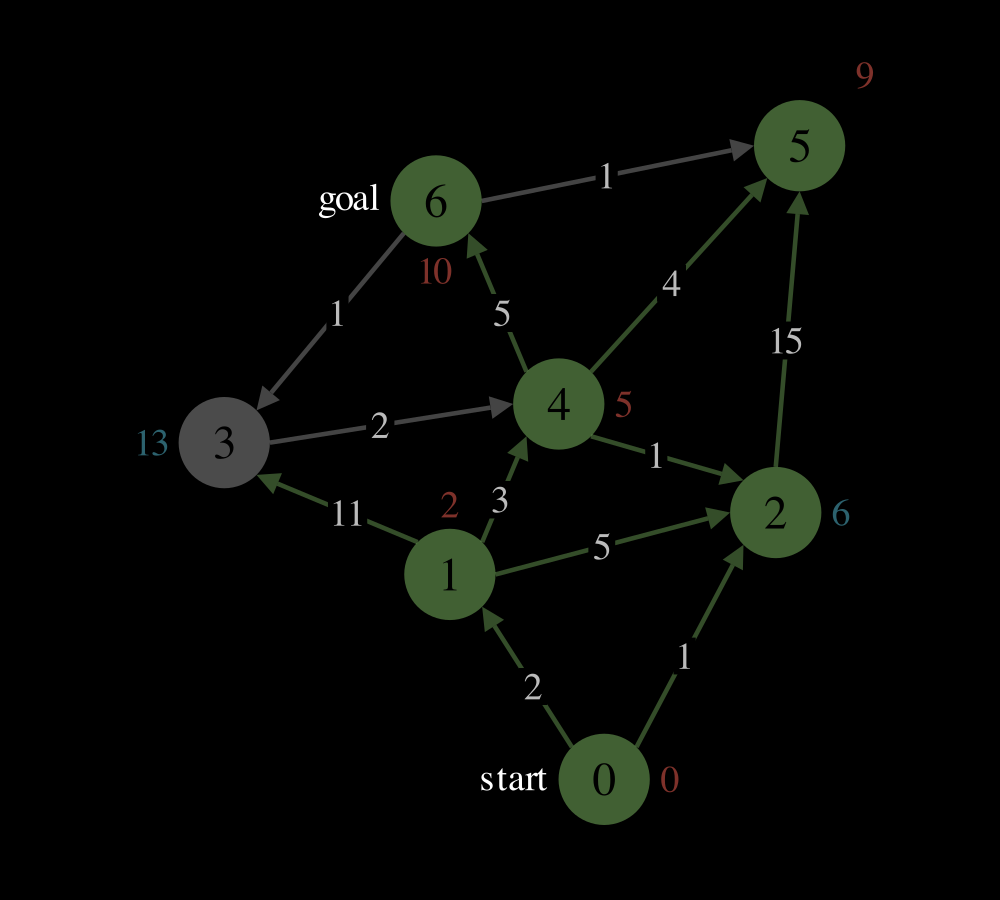
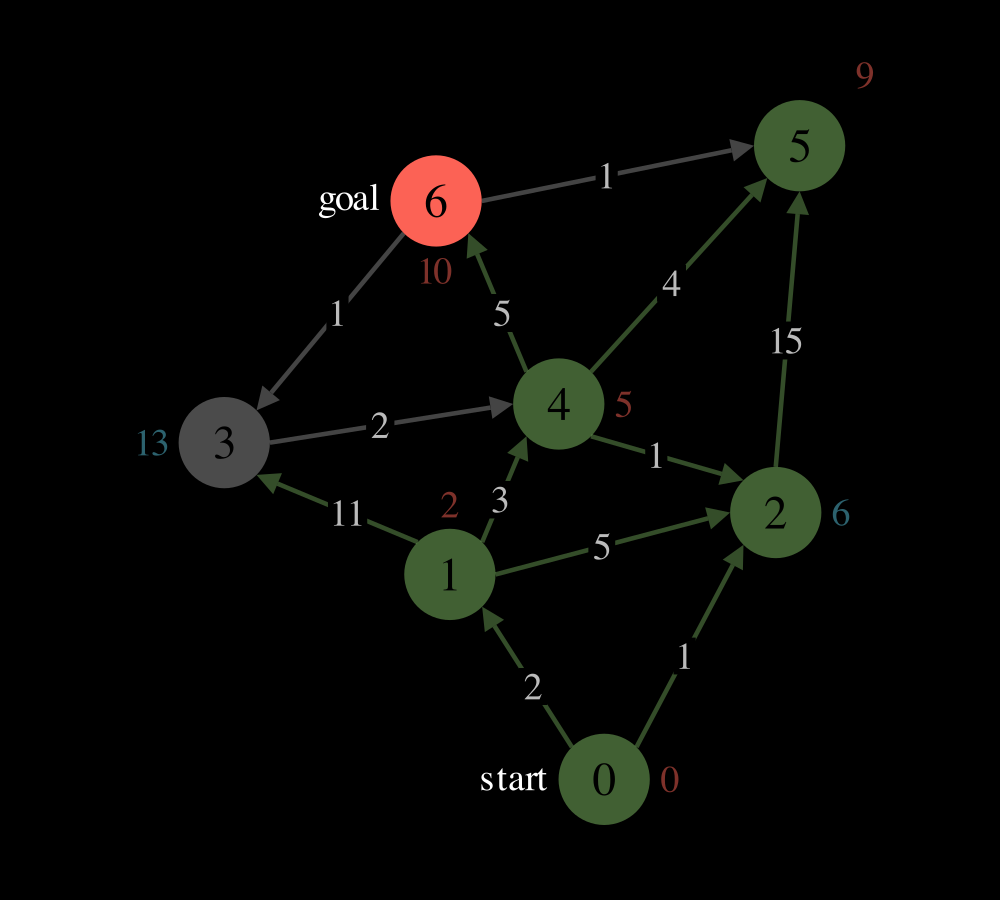
cleanup dijkstra

Changed region(s): [[0.372, 0.1556, 0.496, 0.28]]

diff --git a/react-src/components/comics/dijkstra/DijkstraBehaviorComic.tsx b/react-src/components/comics/dijkstra/DijkstraBehaviorComic.tsx
@@ -4,6 +4,7 @@ import { useRef } from "react"
 
 const CUR_BLUE = "#58C4DD"
 const CUR_RED = "#7E312A"
+const VERTEX_RED = "#FC6255"
 const DijkstraBehaviorComic = () => {
   const folder = "/graphics/dijkstra/comic-behavior"
   const imageIndex = useRef(0)
@@ -11,33 +12,14 @@ const DijkstraBehaviorComic = () => {
     return <img src={`${folder}/step${imageIndex.current++}.png`} />
   }
   const introText =
-    "Welcome! We're going to apply Dijkstra's to the problem of finding the shortest path from the start to the end of a graph with non-negative weights."
+    "Welcome! We're going to apply Dijkstra's to find the shortest path from the start vertex to the end vertex of a directed graph (meaning edges have direction) with non-negative weights. You can also think of this as finding the shortest driving directions on a map, where each edge is a one-way street and each edge weight is the distance (or time) to travel that street."
+  const ignoreFirstImage = nextImage()
+
   const row1 = (
-    <Row
-      comps={[
-        <Panel
-          panel={
-            <Panel
-              justifyPanelContent="center"
-              // labelBelow={<Text justifyContent="center" value="" />}
-              panel={
-                <img src={`/graphics/dijkstra/lambda.png`} width={"60px"} />
-              }
-              label={<Text value={introText} />}
-            />
-          }
-        />,
-        <Panel
-          panel={nextImage()}
-          label={
-            <Text
-              value="This is our graph. Now I'll lose the first-person and get right to it."
-              justifyContent="center"
-            />
-          }
-        />,
-      ]}
-    />
+    <div className="flex flex-row gap-4 items-center">
+      {<img src={`/graphics/dijkstra/lambda.png`} width={"60px"} />}
+      <div>{<Text value={introText} />}</div>
+    </div>
   )
 
   const row2 = (
@@ -55,8 +37,9 @@ const DijkstraBehaviorComic = () => {
             <Text
               value={
                 <span>
-                  Next, relax all the edges going out of the node. That is, for
-                  each neighboring node, update its{" "}
+                  Next, relax all the edges going out of vertex{" "}
+                  <Text inline={true} color={VERTEX_RED} value={"v"} />. That
+                  is, for each neighboring vertex, update its{" "}
                   <Text
                     inline={true}
                     color={CUR_BLUE}
@@ -64,7 +47,9 @@ const DijkstraBehaviorComic = () => {
                   />
                   . If the distance of the new path along the edge is less than
                   the best distance so far, then update the best distance so
-                  far.
+                  far. Also update the previous vertex of this neighbor to be
+                  vertex <Text inline={true} color={VERTEX_RED} value={"v"} />,
+                  in order to track the shortest paths.
                 </span>
               }
             />
@@ -79,13 +64,13 @@ const DijkstraBehaviorComic = () => {
         <Panel
           panel={nextImage()}
           label={
-            <Text value="Explore node 2 because it has the smallest best distance so far among the unexplored nodes. Node 2’s distance value of 1 is less than node 1’s distance value of 2 and all the other nodes’ distance values of infinity." />
+            <Text value="Explore vertex 2 because it has the smallest best distance so far among the unexplored vertexs. Vertex 2’s distance value of 1 is less than vertex 1’s distance value of 2 and all the other vertexs’ distance values of infinity." />
           }
         />,
         <Panel
           panel={nextImage()}
           label={
-            <Text value="Again, relax all the edges going out of the node, just one edge in this case." />
+            <Text value="Again, relax all the edges going out of the vertex, just one edge in this case." />
           }
         />,
       ]}
@@ -96,13 +81,13 @@ const DijkstraBehaviorComic = () => {
       comps={[
         <Row
           label={
-            <Text value="Explore node 1 because it has the smallest best distance so far among the unexplored nodes. And relax the edges." />
+            <Text value="Explore vertex 1 because it has the smallest best distance so far among the unexplored vertexs. And relax the edges." />
           }
           comps={[<Panel panel={nextImage()} />, <Panel panel={nextImage()} />]}
         />,
         <Row
           label={
-            <Text value="And repeat. Notice how the goal node was reached but we continue searching until the goal node is actually explored." />
+            <Text value="And repeat. Notice how the goal vertex was reached but we continue searching until the goal vertex is actually explored." />
           }
           comps={[<Panel panel={nextImage()} />, <Panel panel={nextImage()} />]}
         />,
@@ -118,8 +103,8 @@ const DijkstraBehaviorComic = () => {
             <Text
               value={
                 <span>
-                  Explore node 5. When a node is reached in an explore step
-                  (like this one), the{" "}
+                  Explore vertex 5. When a vertex is reached in an explore step
+                  (like this one), its shortest path and{" "}
                   {
                     <Text
                       inline={true}
@@ -127,9 +112,8 @@ const DijkstraBehaviorComic = () => {
                       value={"minimum distance"}
                     />
                   }{" "}
-                  and the shortest path to that node from the start has been
-                  found. That statement deserves a proof but for now let's keep
-                  going.
+                  from the start has been found. That statement deserves a proof
+                  but for now let's keep going.
                 </span>
               }
             />
@@ -156,7 +140,7 @@ const DijkstraBehaviorComic = () => {
         />,
         <Column
           label={
-            <Text value="Repeatedly follow edges backward until the start is reached." />
+            <Text value="Using the previous vertices tracked in the relax step, repeatedly follow edges backward until the start is reached." />
           }
           comps={[
             <Row
@@ -176,6 +160,7 @@ const DijkstraBehaviorComic = () => {
       ]}
     />
   )
-  return <Column comps={[row1, row2, row3, row4, row5, row6]} />
+  //   return <hr />
+  return <Column comps={[row1, <hr />, row2, row3, row4, row5, row6]} />
 }
 export default DijkstraBehaviorComic

diff --git a/react-src/components/comics/dijkstra/DijkstraIntro.tsx b/react-src/components/comics/dijkstra/DijkstraIntro.tsx
@@ -1,4 +1,4 @@
-import { Panel, Row, Text } from "@/components"
+import { Column, Panel, Row, Text } from "@/components"
 import Editor from "@monaco-editor/react"
 
 const DijkstraIntro = () => {
@@ -13,8 +13,16 @@ const DijkstraIntro = () => {
       Dijkstra's algorithm is used to find the shortest paths between a source
       vertex and all other vertices in a graph with nonnegative weights.
       Djikstra's can also solve the more specific problem of finding the
-      shortest path from a start vertex to an end vertex. A common use case is
-      finding directions from Point A to Point B on a map.
+      shortest path from a start vertex to an end vertex. One use case could be
+      finding directions from Point A to Point B using roads on a map.
+    </span>
+  )
+
+  let textRuntime = (
+    <span>
+      <b>Runtime: </b>
+      <code>O((E+V)logV)</code> for a simple python implementation (see below),
+      where E is the number of edges and V is the number of vertices.
     </span>
   )
   let algSteps = (
@@ -23,7 +31,7 @@ const DijkstraIntro = () => {
       <ul>
         <li>
           Initialize a priority queue <code>PQ</code> and a map{" "}
-          <code>distances</code>.
+          <code>distances</code> and a map <code>prev</code>.
         </li>
         <li>
           Repeat until <code>PQ</code> is empty:
@@ -34,49 +42,30 @@ const DijkstraIntro = () => {
           </li>
           <li>
             <b>Relax</b> the outgoing edges of <code>v</code> by updating{" "}
-            <code>distances</code> and <code>PQ</code> and also{" "}
-            <code>prev</code> for tracking these paths. See the picture to see a
-            relaxation step.
+            <code>distances</code>, <code>PQ</code>, and <code>prev</code>. See
+            the picture above to see a relaxation step.
           </li>
         </ul>
       </ul>
     </span>
   )
-  let textRuntime = (
-    <span>
-      <b>Runtime: </b>
-      With a simple python implementation (see below), its runtime is{" "}
-      <code>O((E+V)logV)</code> where E is the number of edges and V is the
-      number of vertices.
-    </span>
-  )
 
-  let snapshotText = (
-    <div>
-      {textIntro}
-      <br />
-      <br />
-      {algSteps}
-      <br />
-      {textRuntime}
-    </div>
-  )
+  let snapshotText = <div>{textIntro}</div>
   return (
-    <div>
-      <Row
-        comps={[
-          <Panel
-            label={
-              <div>
-                <Text fontSize="18px" value={snapshotText} />
-              </div>
-            }
-          />,
-          <Panel
-            panel={<img src="/graphics/dijkstra/comic-behavior/step6.png" />}
-          />,
-        ]}
-      />
+    <div className="flex flex-col">
+      <div className="flex flex-row">
+        <div className="w-3/5">
+          {<Text fontSize="20px" value={snapshotText} />}
+          <br />
+          {<Text fontSize="20px" value={textRuntime} />}
+        </div>
+        <div className="w-2/5">
+          <img src="/graphics/dijkstra/comic-behavior/step6.png" alt="" />
+        </div>
+      </div>
+
+      <br />
+      {<Text value={algSteps} />}
     </div>
   )
 }

diff --git a/react-src/components/comics/dijkstra/DijkstraCode.tsx b/react-src/components/comics/dijkstra/DijkstraCode.tsx
@@ -2,9 +2,10 @@ import Editor from "@monaco-editor/react"
 
 const DijkstraCode = () => {
   const pythonCode = `import heapq
+# graph is a map from vertex v => list of outgoing edges
 def dijkstra(graph, start):
-    # graph is a map from vertex v => list of outgoing edges
-    dist = {node: float("inf") for node in graph}
+    # dist is a map from vertex v => best distance found so far
+    dist = {v: float("inf") for v in graph}
     dist[start] = 0
     pq = [(0, start)]
     prev = {}
@@ -33,19 +34,22 @@ dist, prev = dijkstra(g, start)
 print("distance to 6 should be 10 and is", dist[6])
 `
   return (
-    <Editor
-      height="38rem"
-      defaultLanguage="python"
-      theme="vs-dark"
-      defaultValue={pythonCode}
-      options={{
-        readOnly: true,
-        minimap: { enabled: false },
-        scrollbar: { vertical: "hidden", alwaysConsumeMouseWheel: false },
-        scrollBeyondLastLine: false,
-        fontSize: 16,
-      }}
-    />
+    <div>
+      <Editor
+        //   height="38rem"
+        height={pythonCode.split("\n").length * 21 + "px"}
+        defaultLanguage="python"
+        theme="vs-dark"
+        defaultValue={pythonCode}
+        options={{
+          readOnly: true,
+          minimap: { enabled: false },
+          scrollbar: { vertical: "hidden", alwaysConsumeMouseWheel: false },
+          scrollBeyondLastLine: false,
+          fontSize: 14,
+        }}
+      />
+    </div>
   )
 }
 export default DijkstraCode

diff --git a/react-src/components/Panels.tsx b/react-src/components/Panels.tsx
@@ -10,7 +10,6 @@ interface PanelProps {
   labelBelow?: ReactElement<typeof Text> | string // label below the panel contents
   panel?: ReactElement<PanelType> | null
   useOutline?: boolean
-  justifyPanelContent?: "flex-start" | "center" | "flex-end" // position of `panel` along horizontal axis
   hmargin?: string
   vmargin?: string
   hpadding?: string
@@ -22,7 +21,6 @@ const Panel: React.FC<PanelProps> = ({
   labelBelow = "",
   panel = null,
   useOutline = false,
-  justifyPanelContent = "flex-start",
   hmargin = "0.3rem",
   vmargin = "0.3rem",
   hpadding = "0",
@@ -45,7 +43,6 @@ const Panel: React.FC<PanelProps> = ({
   let containerStyle: React.CSSProperties = {
     display: "flex",
     flexDirection: "column",
-    alignItems: justifyPanelContent,
     flexShrink: 1,
     flexGrow: 1,
     outline: useOutline ? "2px solid gray" : null,
@@ -56,11 +53,8 @@ const Panel: React.FC<PanelProps> = ({
   return (
     <div style={outerStyle}>
       {label !== "" && label}
-      {/* div below handles space between case */}
-      <div>
-        <div style={containerStyle}>{panel}</div>
-        {labelBelow !== "" && labelBelow}
-      </div>
+      <div style={containerStyle}>{panel}</div>
+      {labelBelow !== "" && labelBelow}
     </div>
   )
 }

diff --git a/react-src/styles/globals.css b/react-src/styles/globals.css
@@ -99,3 +99,13 @@ code {
   font-family: "Roboto Mono", monospace;
   white-space: pre-wrap;
 }
+
+hr {
+  border-color: white;
+  /* this does not work, due to weird processing of hr tag in flex */
+  /* width: 100%; */
+  /* @apply w-3xl; */
+  /* 48rem - 2rem for margin -2rem arbitrary ancestor padding */
+  width: 44rem;
+  margin: 1rem;
+}

diff --git a/manim-src/dijkstras.py b/manim-src/dijkstras.py
@@ -18,8 +18,8 @@ CIRCLE_COLORS = [
     MAROON_E,
 ]  # unique colors for <=6 distinct edges
 
-# config.frame_size = (1000, 900)
-config.frame_size = (500, 450)
+config.frame_size = (1000, 900)
+# config.frame_size = (500, 450)
 
 GRAPH1 = {
     0: [(1, 2), (2, 1)],
@@ -357,8 +357,8 @@ class ShortestPath(MovingCameraScene):
                     continue
                 if cur_node == end:
                     reached = True
-                    vgraph.highlight_node(cur_node)
                     self.capture()
+                    vgraph.highlight_node(cur_node)
                     break
 
                 self.capture()
@@ -407,7 +407,7 @@ class ShortestPath(MovingCameraScene):
                     vgraph.highlight_edge(node, prev, color=FOCUS_COLOR)
                 path.append(start)
                 path.reverse()
-                vgraph.highlight_node(node, color=FOCUS_COLOR)
+                vgraph.highlight_node(node, color=FOCUS_COLOR, opacity=1.0)
                 self.capture()
                 return distances[end], path
             return float("inf"), []
